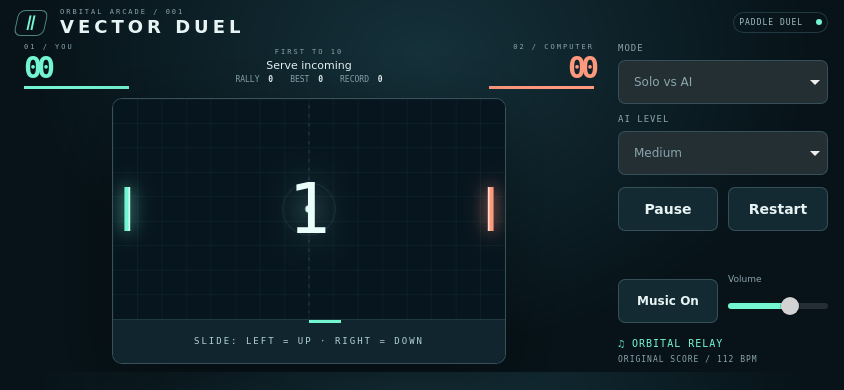
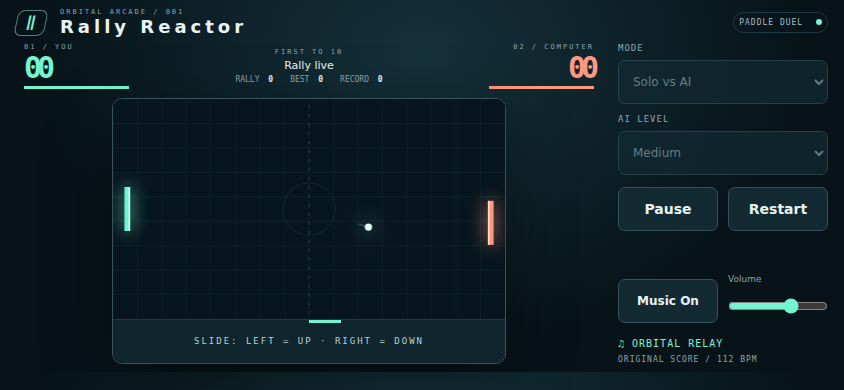
Release Rally Reactor identity with migration and six-viewport regressions

diff --git a/tests/browser/migration.spec.js b/tests/browser/migration.spec.js
@@ -1,0 +1,59 @@
+import { test, expect } from '@playwright/test';
+
+test('exact final identity and legacy origin-wide records survive path migration', async ({ page }) => {
+  const target = process.env.LIVE_URL || 'http://127.0.0.1:4187/';
+  const oldPath = new URL('/pong_game/', target).href;
+  // Mock only the retired path document, keeping real browser origin-wide storage.
+  await page.route(oldPath, route => route.fulfill({contentType:'text/html', body:'<!doctype html><title>Storage seed</title>'}));
+  await page.goto(oldPath);
+  await page.evaluate(() => {
+    localStorage.setItem('vector-duel.record', JSON.stringify({longest:23,record:9}));
+    localStorage.setItem('vector-duel.music', JSON.stringify({enabled:false,volume:0.37}));
+  });
+  await page.goto(target);
+  await expect(page).toHaveTitle('Rally Reactor');
+  await expect(page.locator('h1')).toHaveText('Rally Reactor');
+  await expect(page.locator('#best')).toHaveText('23');
+  await expect(page.locator('#record')).toHaveText('9');
+  await expect(page.locator('#music')).toHaveText('Music Off');
+  await expect(page.locator('#volume')).toHaveValue('0.37');
+});
+
+for (const [width,height] of [[1920,1080],[1366,768],[768,1024],[390,844],[320,568],[844,390]]) {
+  test(`initial fit and native context play ${width}x${height}`, async ({ browser, browserName }) => {
+    const mobile = width < 1000;
+    test.skip(mobile && browserName === 'firefox', 'Firefox does not support isMobile; desktop geometry covered separately');
+    const context = await browser.newContext({viewport:{width,height},isMobile:mobile,hasTouch:mobile,deviceScaleFactor:mobile?2:1});
+    const page = await context.newPage();
+    const errors=[];
+    page.on('pageerror', e=>errors.push(e.message));
+    page.on('console', m=>{if(m.type()==='error') errors.push(m.text());});
+    page.on('requestfailed', r=>errors.push(r.url()+': '+r.failure()?.errorText));
+    page.on('response', r=>{if(r.status()>=400) errors.push(`${r.status()} ${r.url()}`);});
+    try {
+      await page.goto(process.env.LIVE_URL || 'http://127.0.0.1:4187/');
+      await expect(page).toHaveTitle('Rally Reactor');
+      const fit=async()=>{
+        const result=await page.evaluate(()=>({width:document.documentElement.scrollWidth,height:document.documentElement.scrollHeight,rects:[...document.querySelectorAll('#court,#drag,#music,#volume,#pause,#restart,#mode,#difficulty')].map(e=>{const r=e.getBoundingClientRect();return {id:e.id,x:r.x,y:r.y,right:r.right,bottom:r.bottom};})}));
+        expect(result.width).toBeLessThanOrEqual(width);expect(result.height).toBeLessThanOrEqual(height);
+        for(const r of result.rects){expect(r.x,r.id).toBeGreaterThanOrEqual(0);expect(r.y,r.id).toBeGreaterThanOrEqual(0);expect(r.right,r.id).toBeLessThanOrEqual(width);expect(r.bottom,r.id).toBeLessThanOrEqual(height);}
+      };
+      await fit();
+      if(mobile) await page.locator('#start').tap(); else await page.locator('#start').click();
+      await expect.poll(()=>page.evaluate(()=>window.vectorDuel.audio().state),{timeout:15000}).toBe('running');
+      // High-resolution software rendering on a single CPU can delay RAF;
+      // wait for real simulation readiness, never replace it with a scenario.
+      await expect.poll(()=>page.evaluate(()=>window.vectorDuel.state().state), {timeout:30000}).toBe('playing');
+      if(mobile){
+        const r=await page.locator('#drag').boundingBox();
+        await page.touchscreen.tap(r.x+r.width*0.85,r.y+r.height/2);
+        await expect.poll(()=>page.evaluate(()=>window.vectorDuel.state().paddles[0])).toBeGreaterThan(400);
+      } else {
+        await page.keyboard.down('w');await page.waitForTimeout(120);await page.keyboard.up('w');
+        expect(await page.evaluate(()=>window.vectorDuel.state().paddles[0])).toBeLessThan(270);
+      }
+      await fit();
+      expect(errors).toEqual([]);
+    } finally { await context.close(); }
+  });
+}

diff --git a/tests/identity.test.js b/tests/identity.test.js
@@ -1,0 +1,16 @@
+import { readFileSync } from 'node:fs';
+import { describe, it, expect } from 'vitest';
+const read = (name) => readFileSync(new URL('../' + name, import.meta.url), 'utf8');
+describe('approved Rally Reactor public identity', () => {
+  it('uses exact identity in browser, menu, description, package and README', () => {
+    const html = read('index.html');
+    expect(html).toContain('<title>Rally Reactor</title>');
+    expect(html).toContain('<h1>Rally Reactor</h1>');
+    expect(html).toContain('content="Rally Reactor:');
+    expect(JSON.parse(read('package.json')).name).toBe('rally-reactor-game');
+    const readme = read('README.md');
+    expect(readme.split('\n')[0]).toBe('# Rally Reactor');
+    expect(readme).toContain('[Play live](https://nateofspades.github.io/Rally_Reactor_Game/)');
+    expect(readme).toContain('![Active gameplay](assets/screenshots/gameplay.png)');
+  });
+});

diff --git a/index.html b/index.html
@@ -6,9 +6,9 @@
     <meta name="theme-color" content="#07151d" />
     <meta
       name="description"
-      content="Vector Duel: a geometric paddle duel with original electronic music. Outplay the AI or challenge a friend. First to ten."
+      content="Rally Reactor: a geometric paddle duel with original electronic music. Outplay the AI or challenge a friend. First to ten."
     />
-    <title>Vector Duel — private study</title>
+    <title>Rally Reactor</title>
     <link rel="icon" href="assets/icon.svg" type="image/svg+xml" />
     <link rel="stylesheet" href="style.css" />
   </head>
@@ -19,7 +19,7 @@
           <span class="brand-icon" aria-hidden="true">Ⅱ</span>
           <div>
             <p class="eyebrow">ORBITAL ARCADE / 001</p>
-            <h1>VECTOR DUEL</h1>
+            <h1>Rally Reactor</h1>
           </div>
         </div>
         <span class="chip">PADDLE DUEL <i></i></span>

diff --git a/tests/browser/game.spec.js b/tests/browser/game.spec.js
@@ -3,7 +3,7 @@ test("real startup keyboard pause restart and continuous music", async ({
   page,
 }) => {
   await page.goto("./");
-  await expect(page.locator("h1")).toHaveText("VECTOR DUEL");
+  await expect(page.locator("h1")).toHaveText("Rally Reactor");
   await page.getByRole("button", { name: "Start match", exact: true }).click();
   await expect(page.locator("#status")).toHaveText("Serve incoming");
   await page.waitForTimeout(1700);
